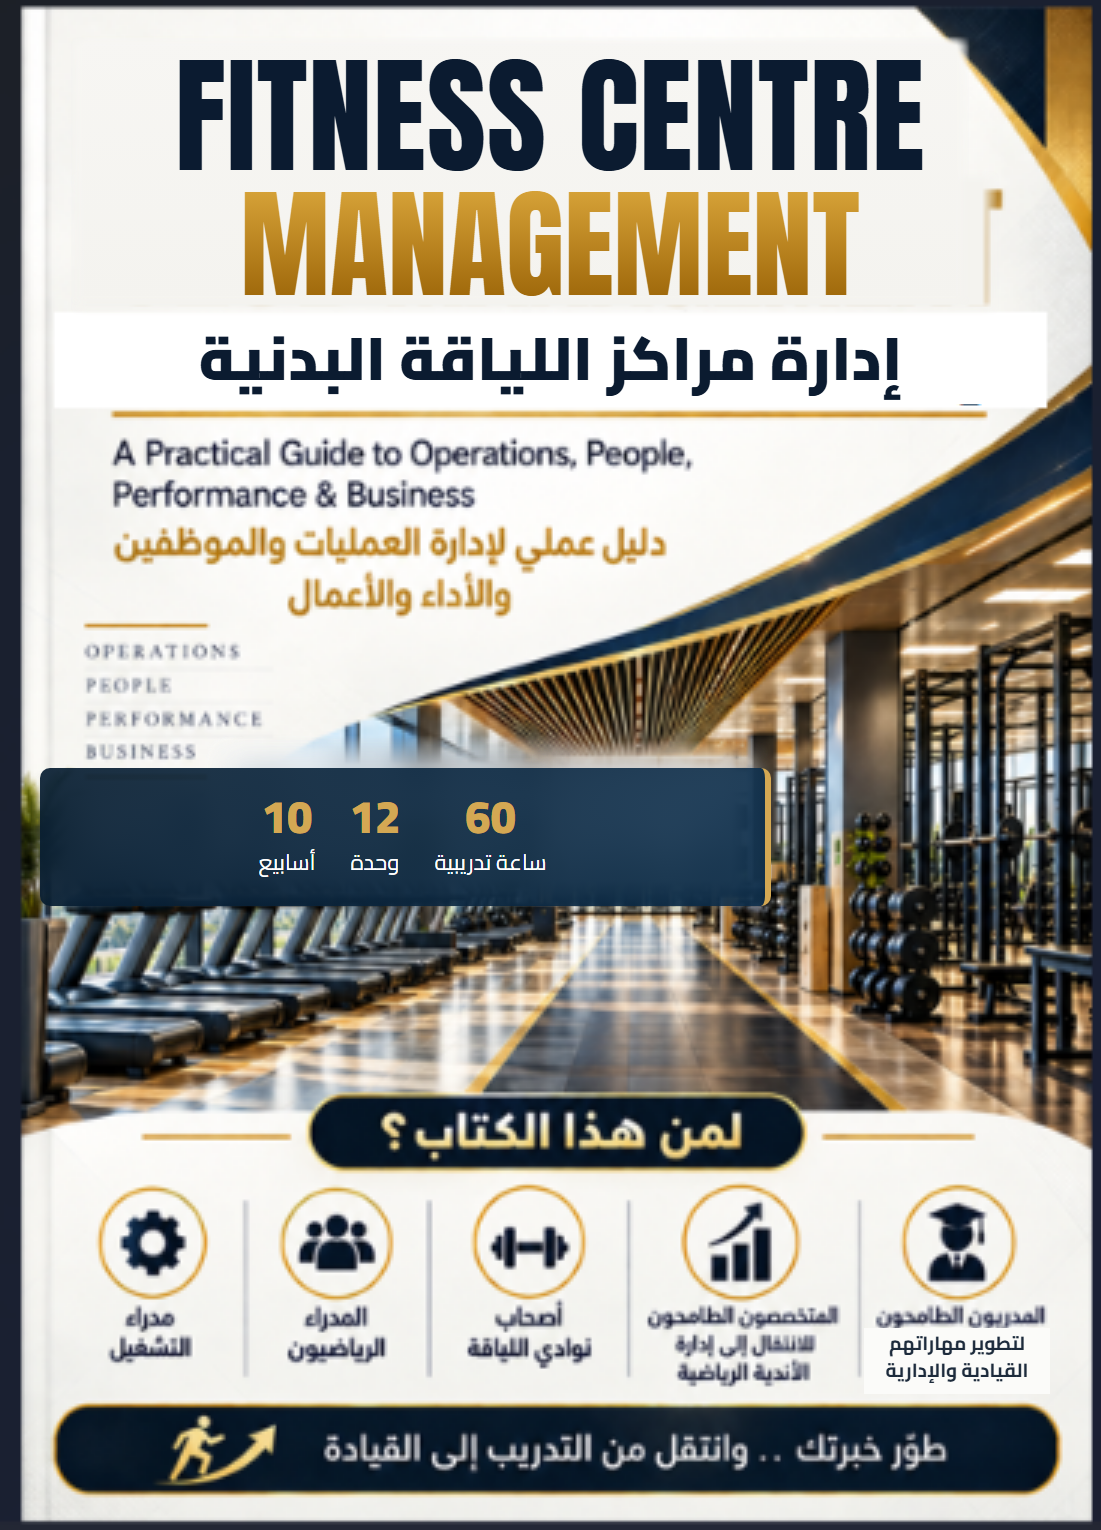
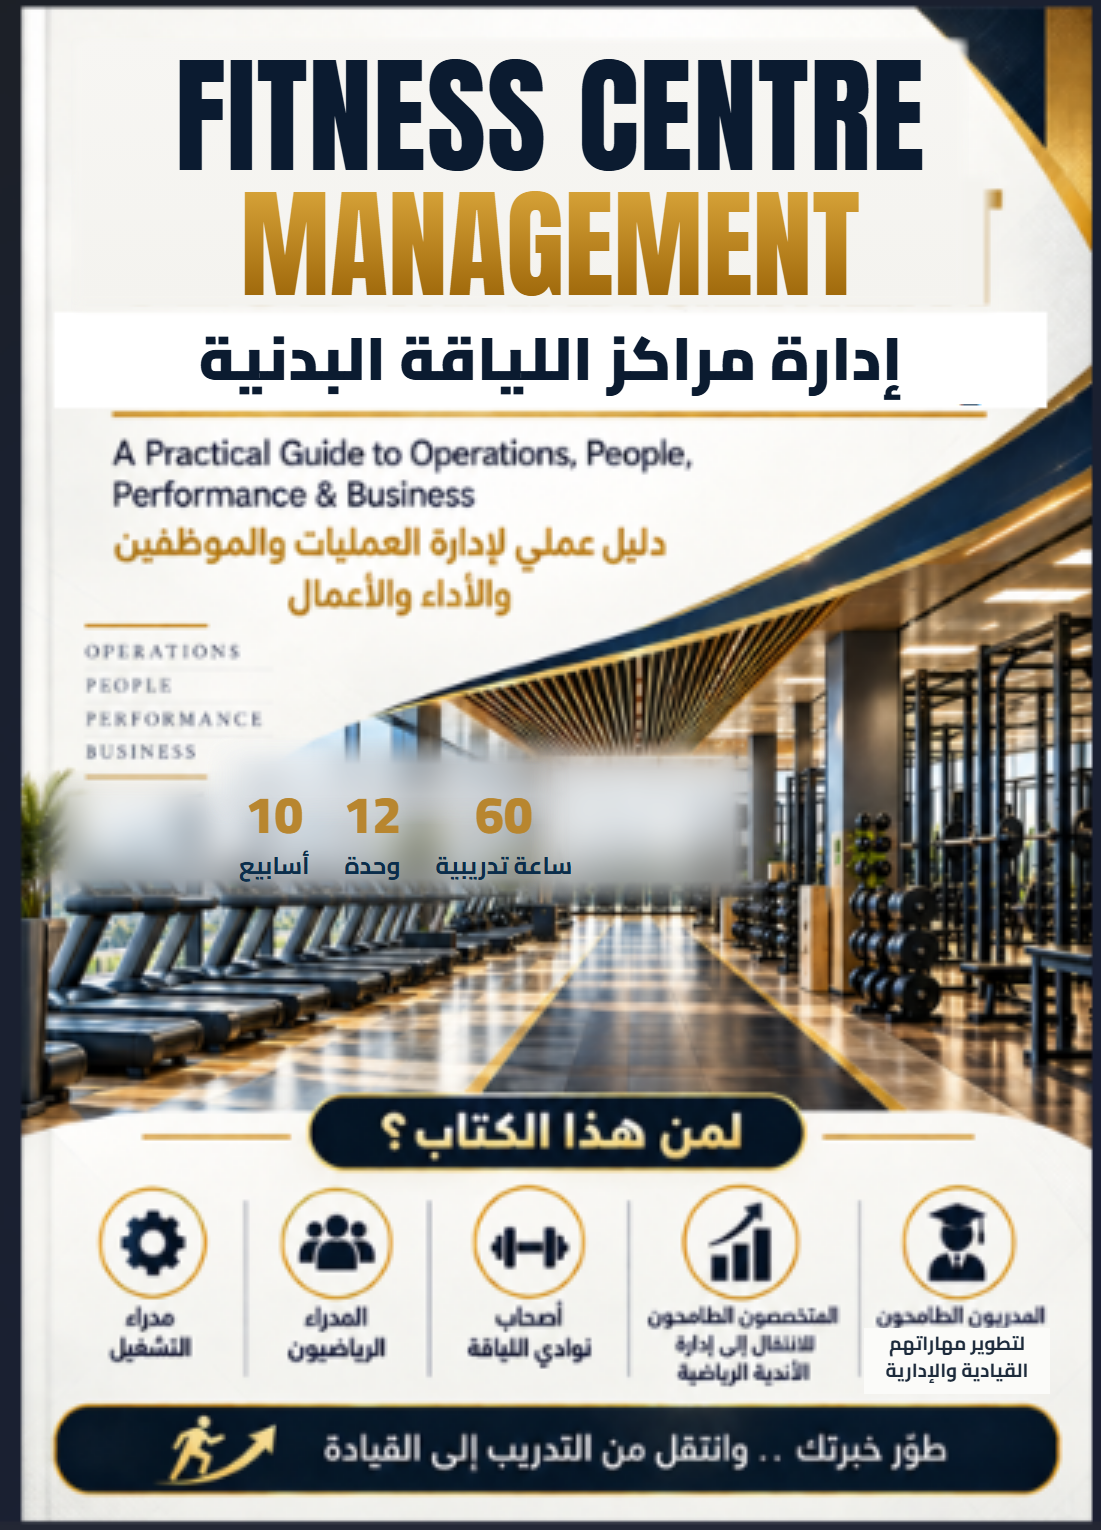
deploy-all

Changed region(s): [[0.0309, 0.4915, 0.7103, 0.6144]]

diff --git a/portal/sw.js b/portal/sw.js
@@ -1,4 +1,4 @@
-const C='alsaad-portal-mwmihqv6';
+const C='alsaad-portal-mwmijqkt';
 self.addEventListener('install',e=>{e.waitUntil(caches.open(C).then(c=>c.addAll(['/portal/','/brand/logo-icon.png']).catch(()=>{})));self.skipWaiting()});
 self.addEventListener('activate',e=>{e.waitUntil(caches.keys().then(k=>Promise.all(k.filter(x=>x!==C).map(x=>caches.delete(x)))));self.clients.claim()});
 self.addEventListener('fetch',e=>{const u=new URL(e.request.url);if(e.request.method!=='GET'||u.origin!==location.origin)return;
